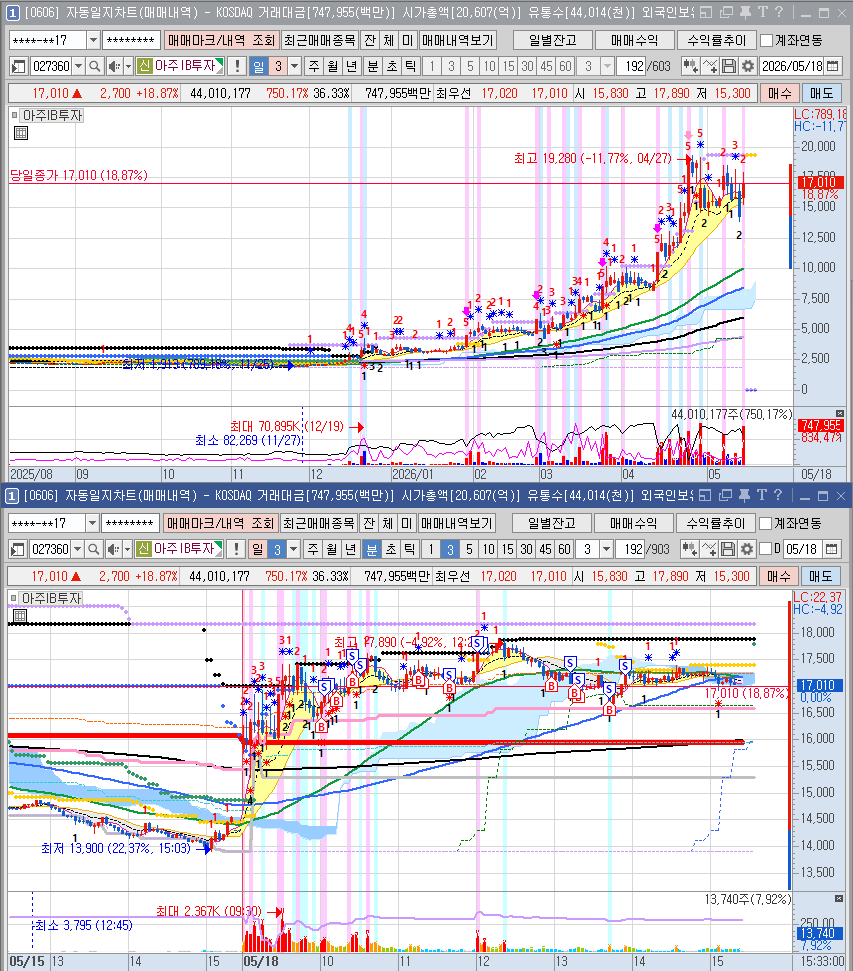
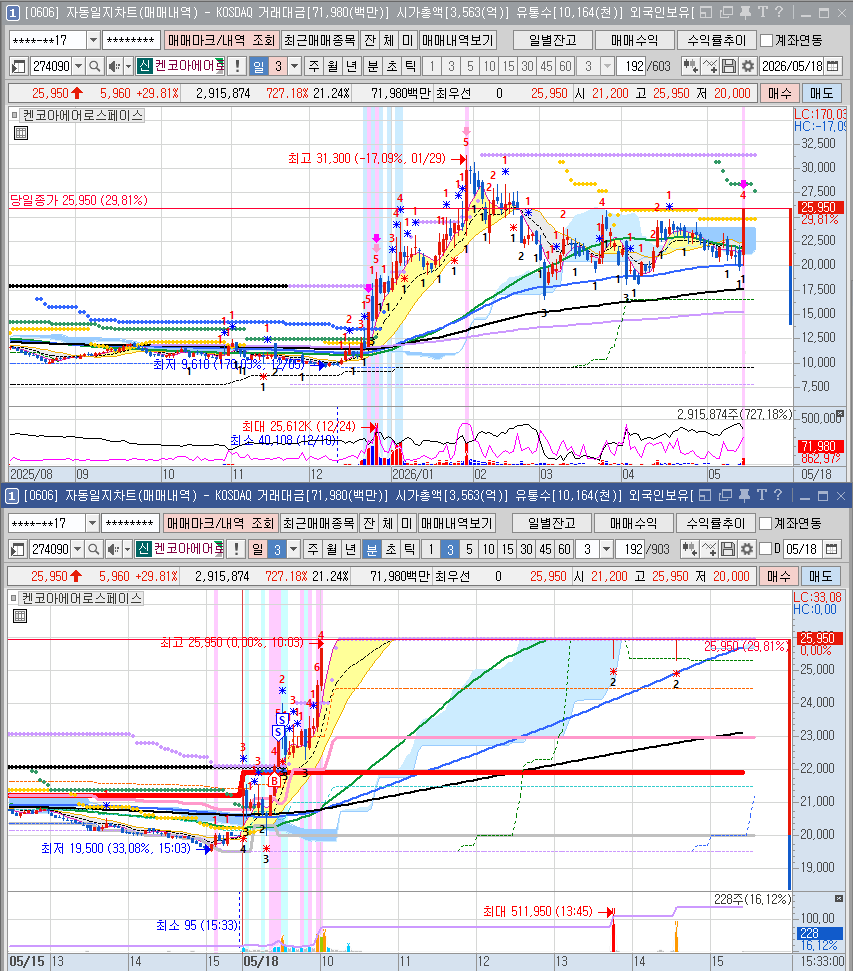
매매일지

diff --git a/2026년/202605/readme.md b/2026년/202605/readme.md
@@ -297,21 +297,33 @@
 ---
 ### 2026.05.18
 
-![](./img/20260518_01.png)
+![한미반도체](./img/20260518_01.png)
 
-**종목명** 📉 -% 손절
+**한미반도체** 📉 -3.00% 손절
+- 매수: NXT시초 프로그램순매수 상위종목 포착, but 전일 쌍끌이 매도종목
+- 매도: 장초 급락으로 대응 못하고 그대로 두들겨 맞음, 바닥에서 매도
+- 심리: 장초에 너무 성급하게 들어갔다, 방향성을 지켜보고 들어가고, 아닌경우 빠른 손절!
 ---
-![](./img/20260518_02.png)
+![켄코아에어로스페이스](./img/20260518_02.png)
 
-**종목명** 📈 +% 익절
+**켄코아에어로스페이스** 📈 +5.42% 익절
+- 매수: 스페이스X 테마 강세, 추세반등 오돌이
+- 매도: 매수하자마자 VI, 상승한마디에 욕심없이 매도
+- 심리: 절반매도 걸었는데, 전량매도 됨. VI후 와리가리 눌림후 바로 상한가
 ---
-![](./img/20260518_03.png)
+![아주IB투자](./img/20260518_03.png)
 
-**종목명** 📈 +% 익절
+**아주IB투자** 📈 +1.29% 익절
+- 매수: 스페이스X 테마 종목중, 프로그램 순매수 큰 종목
+- 매도: 짧게 짧게 스켈로 대응
+- 심리: 장초 코스피/코스닥 급락후 반등, 장이 안좋을때는 종베나 시베는 흐름을 보고 매매할 것
 ---
-![](./img/20260518_04.png)
+![센스뷰](./img/20260518_04.png)
 
-**종목명** 📈 +% 익절
+**센스뷰** 📈 +1.65% 익절
+- 매수: 스페이스X 테마, 반도체/우주항공 테마외 전부 파란불
+- 매도: 고점찍고 눌림후 반등 구간에서 스켈핑
+- 심리: 외국인은 다른종목들 다 팔고, 삼전닉스만 사는거 같은 한국장
 
 <br/>
 
